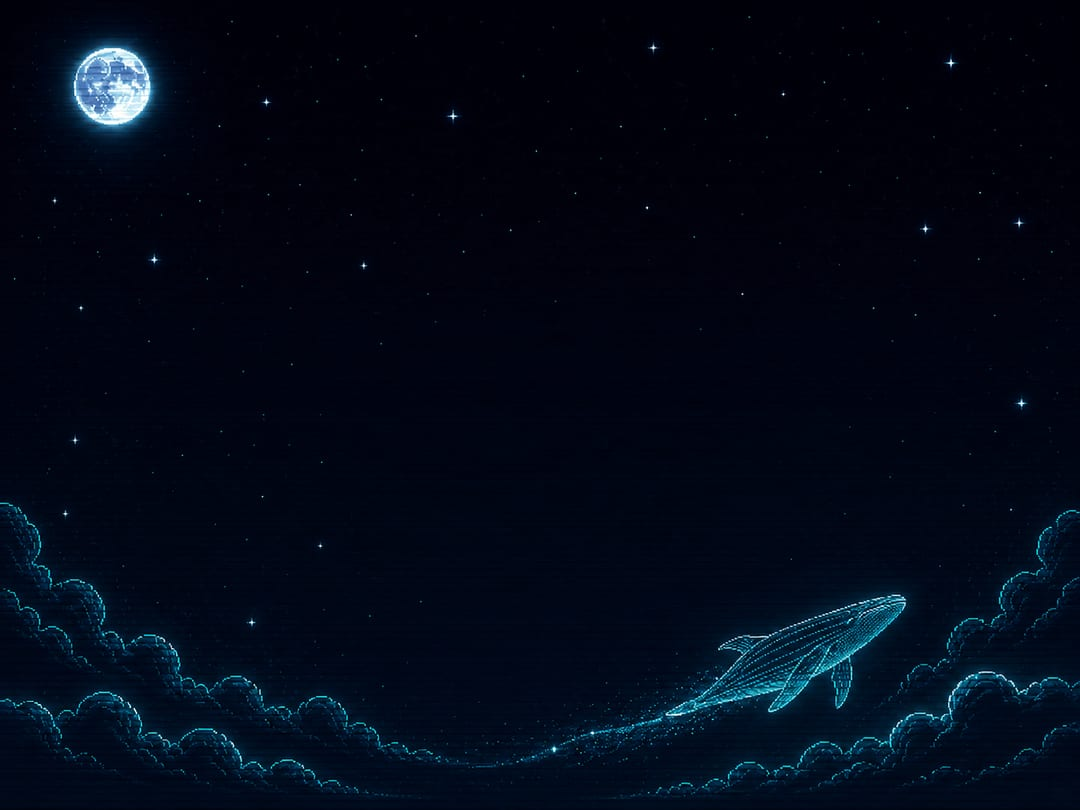
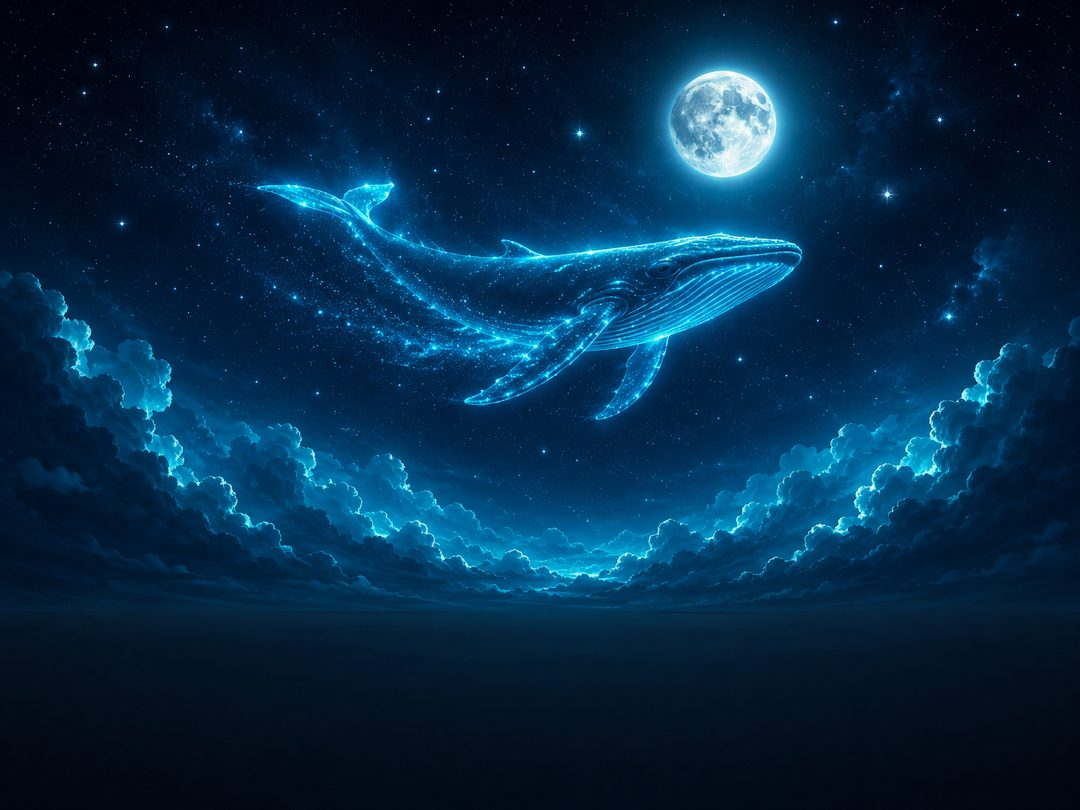
Moonwhale-Pack: neue Semi-Realistic-Art + feste Effekt-Zone (Boden) für Cube-Matrix
- bf_wale desktop/mobile + deck_wale front/back auf den neuen neon-synthwave,
  semi-realistischen Look ersetzt (weg vom Pixel-Look). Maße/Format unverändert
  (1600x640 / 1080x810 JPEG, 560x775 WebP).
- Neue zentrale Effekt-Zonen-Config (src/ui/fx/effectZones.js): der "Boden", auf
  dem Feld-Effekte sitzen — panel-relativ, getrennt Desktop/Mobile, mit Perspektiv-
  Verjüngung. Single source of truth für alle Effekte.
- Cube-Matrix-Feld responsiv ins untere Band gesetzt (Battlefield.jsx): yBias/
  depthScale kommen aus der Zone (Mobile/Desktop via matchMedia-Breakpoint). Der
  Effekt selbst bleibt unangetastet.

Claude-Session: https://claude.ai/code/session_019AHmCns7mZqdQHxExY4Jbx

diff --git a/src/ui/Battlefield.jsx b/src/ui/Battlefield.jsx
@@ -62,6 +62,7 @@ const GLITCH_FORCE = cardAnimForce("glitch");
 const CARD_FX_ENABLED = true;
 import { PIXI_FIELD_KEYS } from "./fx/fieldFxKeys.js"; // pixi-FREI: welche Feld-Effekte der GPU-Emitter übernimmt
 const PIXI_FIELD = new Set(PIXI_FIELD_KEYS);
+import { MOBILE_MQ, cubeMatrixZoneProps } from "./fx/effectZones.js"; // feste Effekt-Zone (Boden) → 3D-Feld ins untere Band setzen
 import AuroraFieldGL from "./fx/AuroraFieldGL.jsx"; // Aurora läuft als eigene WebGL-Canvas (nicht über Pixi)
 import DeckGlowFieldGL from "./fx/DeckGlowFieldGL.jsx"; // #deckglow: Deck-Glow ebenfalls als eigene WebGL-Canvas
 import ScorchFx from "./fx/ScorchFx.jsx"; // #319 Scorch-Sieg-Finisher (Canvas-2D, pixi-frei → läuft auch in Produktion)
@@ -664,6 +665,20 @@ function SlashGhostLayer({ ghosts, panelRef = null }) {
 
 // #: CritScreenFx (Vollbild-Flash/Vignette bei Krit) entfernt — Krit-Finisher-Animationen raus.
 
+// #zone: Viewport-Erkennung (mobile ≤ 640px = <picture>-Breakpoint) → wählt die passende Effekt-Zone (Mobile/Desktop).
+function useIsMobileVp() {
+  const [m, setM] = useState(() => typeof window !== "undefined" && window.matchMedia(MOBILE_MQ).matches);
+  useEffect(() => {
+    if (typeof window === "undefined") return undefined;
+    const mq = window.matchMedia(MOBILE_MQ);
+    const on = () => setM(mq.matches);
+    on();
+    mq.addEventListener ? mq.addEventListener("change", on) : mq.addListener(on);
+    return () => { mq.removeEventListener ? mq.removeEventListener("change", on) : mq.removeListener(on); };
+  }, []);
+  return m;
+}
+
 export function Battlefield({ lastTrick, remaining = TRICKS_PER_CYCLE, deckLen = TRICKS_PER_CYCLE, flipMs = 1000, pe = {}, heat = null, lightning = null, oppDeck = "stat", score = 0,
   // Feuer-Rework (#206): geschmiedete Dauerwerte (eigene Karten) + aktive Brandmarken (Gegnerkarten) für die Karten-Indikatoren.
   forged = {}, brandActive = {},
@@ -712,6 +727,8 @@ export function Battlefield({ lastTrick, remaining = TRICKS_PER_CYCLE, deckLen =
   const deckGlowOn = pixiEnabled && deckGlow && !!battlefield; // #deckglow: eigene WebGL-Canvas über dem BF-Bild (kombinierbar, Gate wie Aurora)
   // #317 Cube-Matrix: eigene Canvas-Bühne (musik-reaktiv), Gate wie Aurora (Preview/Dev; Produktion lädt sie nicht).
   const cubeMatrixOn = (import.meta.env.VITE_PREVIEW === "1" || import.meta.env.DEV) && bgFx === "cubematrix" && !!deckA1;
+  // #zone: feste Effekt-Zone (Boden) → Cube-Matrix-Feld responsiv ins untere Band verschieben (Mobile/Desktop).
+  const cmZone = cubeMatrixZoneProps(useIsMobileVp());
   // Panel = Feld-Rahmen (Ref für Layout/Position), oppSlot = Gegnerkarten-Slot.
   const panelRef = useRef(null);
   const oppSlotRef = useRef(null);
@@ -1270,7 +1287,7 @@ export function Battlefield({ lastTrick, remaining = TRICKS_PER_CYCLE, deckLen =
         <>
           <div aria-hidden="true" className="absolute inset-0 z-[2] pointer-events-none">
             <Suspense fallback={null}>
-              <CubeMatrixField mode="field" color={deckA1} color2={deckA2 || deckA1} deckColored={cubematrixDeck} reduced={reduced} lite={lite} sun={false} wire={cubematrixWire} />
+              <CubeMatrixField mode="field" color={deckA1} color2={deckA2 || deckA1} deckColored={cubematrixDeck} reduced={reduced} lite={lite} sun={false} wire={cubematrixWire} yBias={cmZone.yBias} depthScale={cmZone.depthScale} />
             </Suspense>
           </div>
           <div aria-hidden="true" className="absolute inset-0 z-[11] pointer-events-none">

diff --git a/src/ui/fx/effectZones.js b/src/ui/fx/effectZones.js
@@ -1,0 +1,32 @@
+/* EFFEKT-ZONEN — der „Boden", auf dem die 3D-Feld-Effekte (Cube-Matrix, Sternenregen/Komet, …) sitzen.
+   Panel-/bild-relativ in Prozent, getrennt für Desktop und Mobile. BEWUSST eine EINZIGE Zone für ALLE
+   Effekte (Wunsch: simpel + fix): so lassen wir die Fläche in jedem Background frei und die Effekte
+   sitzen immer gleich. Neue Backgrounds werden genau auf dieses Band ausgelegt.
+
+     x/y/w/h = Bounding-Box des Bodens (bild-relativ, %) — volle Breite, unteres Band.
+     persp   = seitlicher Einzug der HINTEREN Kante je Seite (%) → Verjüngung nach hinten (3D-Boden).
+
+   Ermittelt im Zonen-Tool (bild-relativ auf 1600×640 Desktop / 1080×810 Mobile). Single source of truth:
+   Effekte konsumieren diese Werte, statt sie einzeln hart zu kodieren. */
+export const EFFECT_ZONES = {
+  desktop: { x: 0, y: 82, w: 100, h: 18, persp: 26 },
+  mobile:  { x: 0, y: 86, w: 100, h: 14, persp: 22 },
+};
+
+// = Breakpoint der <picture>-Auswahl in Battlefield.jsx (mobile ≤ 640px) → gleiche Grenze für die Zonen-Wahl.
+export const MOBILE_MQ = "(max-width: 640px)";
+
+export const pickEffectZone = (isMobile) => (isMobile ? EFFECT_ZONES.mobile : EFFECT_ZONES.desktop);
+
+/* Zone → CubeMatrixField-Platzierung. Der Effekt setzt seine Boden-Naht (baseY) bei 0.60·H (NEIGUNG+FELD_HOEHE);
+   `yBias` hebt sie um yBias·H an (baseY = 0.60·H − yBias·H). Damit die Naht auf die HINTERE Kante unseres Bands
+   (zone.y) rückt, gilt: yBias = 0.60 − zone.y/100 (Desktop ≈ −0.22, Mobile ≈ −0.26 → Feld wandert nach unten ins
+   Band). `depthScale` < 1 macht das Feld flacher (weniger tiefe Reihen), damit es als Band liest statt tief in die
+   Szene zu laufen. Erste, im Spiel fein justierbare Näherung — hier zentral tunen, nicht im Effekt verstreut. */
+export const cubeMatrixZoneProps = (isMobile) => {
+  const z = pickEffectZone(isMobile);
+  return {
+    yBias: +(0.60 - z.y / 100).toFixed(3),
+    depthScale: 0.85,
+  };
+};
